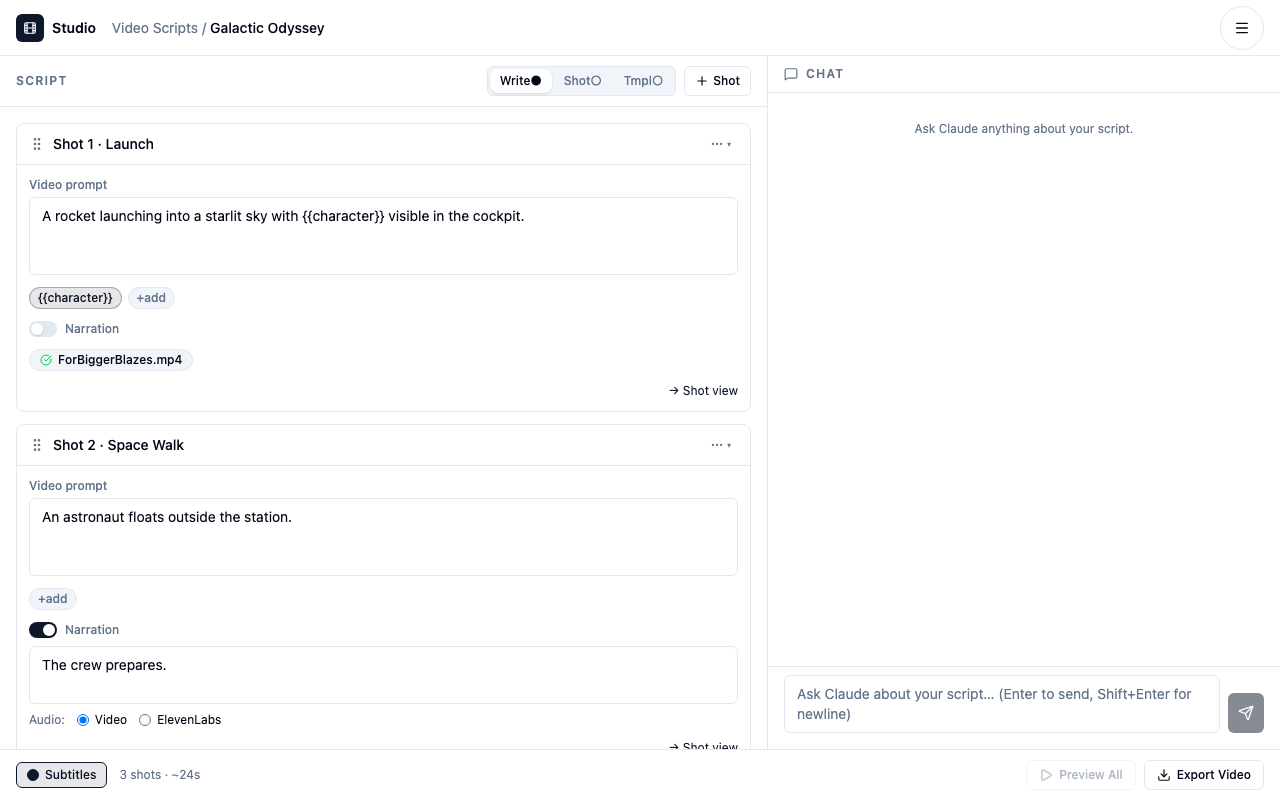
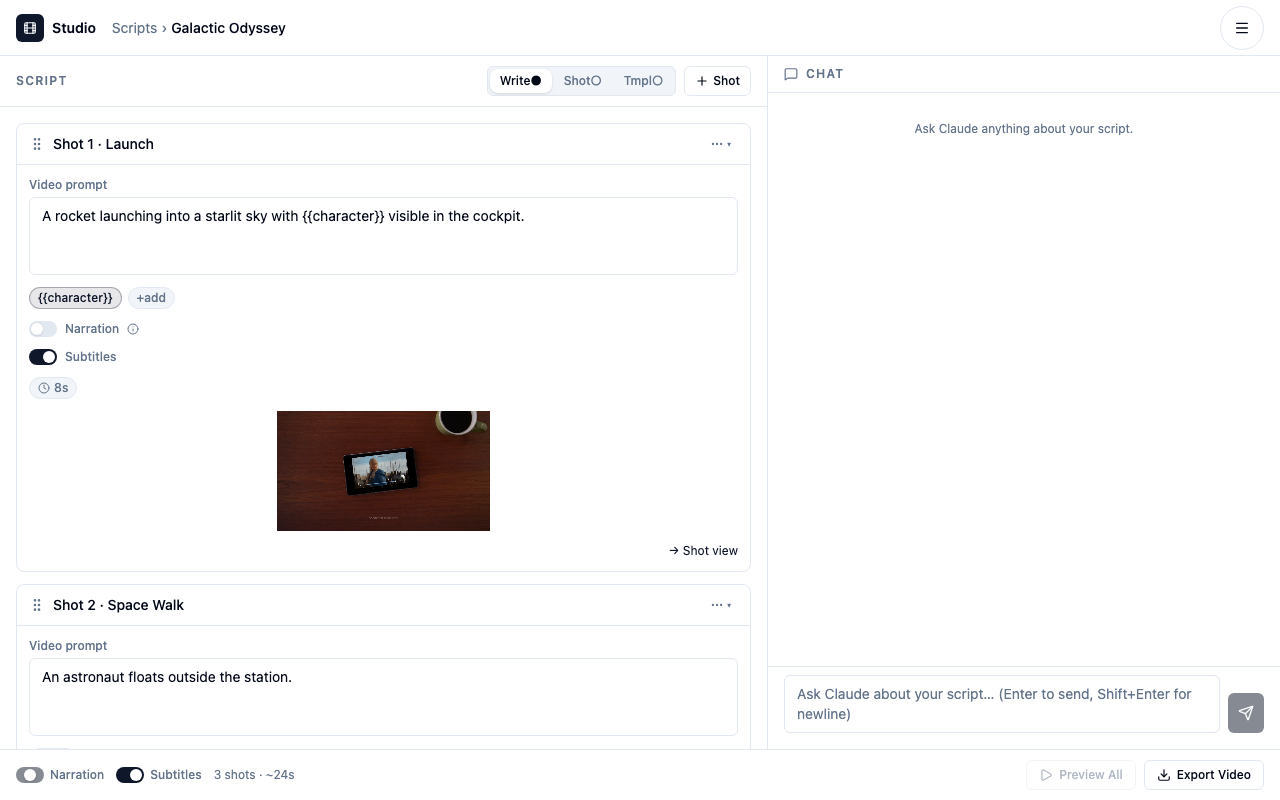
feat(US-082): inline video preview on Write mode shot cards
Replace the selected-video filename pill with a <video> element
(muted, loop, playsInline, max-height 120px) when shot.video.selectedUrl
is set. Falls back to no indicator when selectedUrl is null.

Also removes the now-unused CheckCircle import and updates four
screenshot baselines to reflect the new card layout.

diff --git a/src/video/pages/VideoScriptView.tsx b/src/video/pages/VideoScriptView.tsx
@@ -101,7 +101,6 @@ import {
   X,
   Tags,
   GripVertical,
-  CheckCircle,
   ChevronLeft,
   ChevronRight,
   Sparkles,
@@ -1438,21 +1437,18 @@ function ShotCard({
             </span>
           </div>
 
-          {/* Selected video pill */}
-          {shot.video.selectedUrl && (
-            <div className="flex items-center gap-1.5">
-              <span
-                className="inline-flex items-center gap-1.5 rounded-full border border-border bg-muted px-2.5 py-0.5 text-xs font-medium text-foreground max-w-[200px]"
-                data-testid={`selected-video-pill-${shot.id}`}
-                title={shot.video.selectedUrl}
-              >
-                <CheckCircle className="h-3 w-3 text-green-500 shrink-0" />
-                <span className="truncate">
-                  {extractFilename(shot.video.selectedUrl)}
-                </span>
-              </span>
-            </div>
-          )}
+          {/* Selected video preview / pill */}
+          {shot.video.selectedUrl ? (
+            <video
+              src={shot.video.selectedUrl}
+              muted
+              loop
+              playsInline
+              className="w-full rounded-md object-contain"
+              style={{ maxHeight: "120px" }}
+              data-testid={`shot-video-preview-${shot.id}`}
+            />
+          ) : null}
 
           {/* → Shot view link */}
           <div className="flex justify-end">
